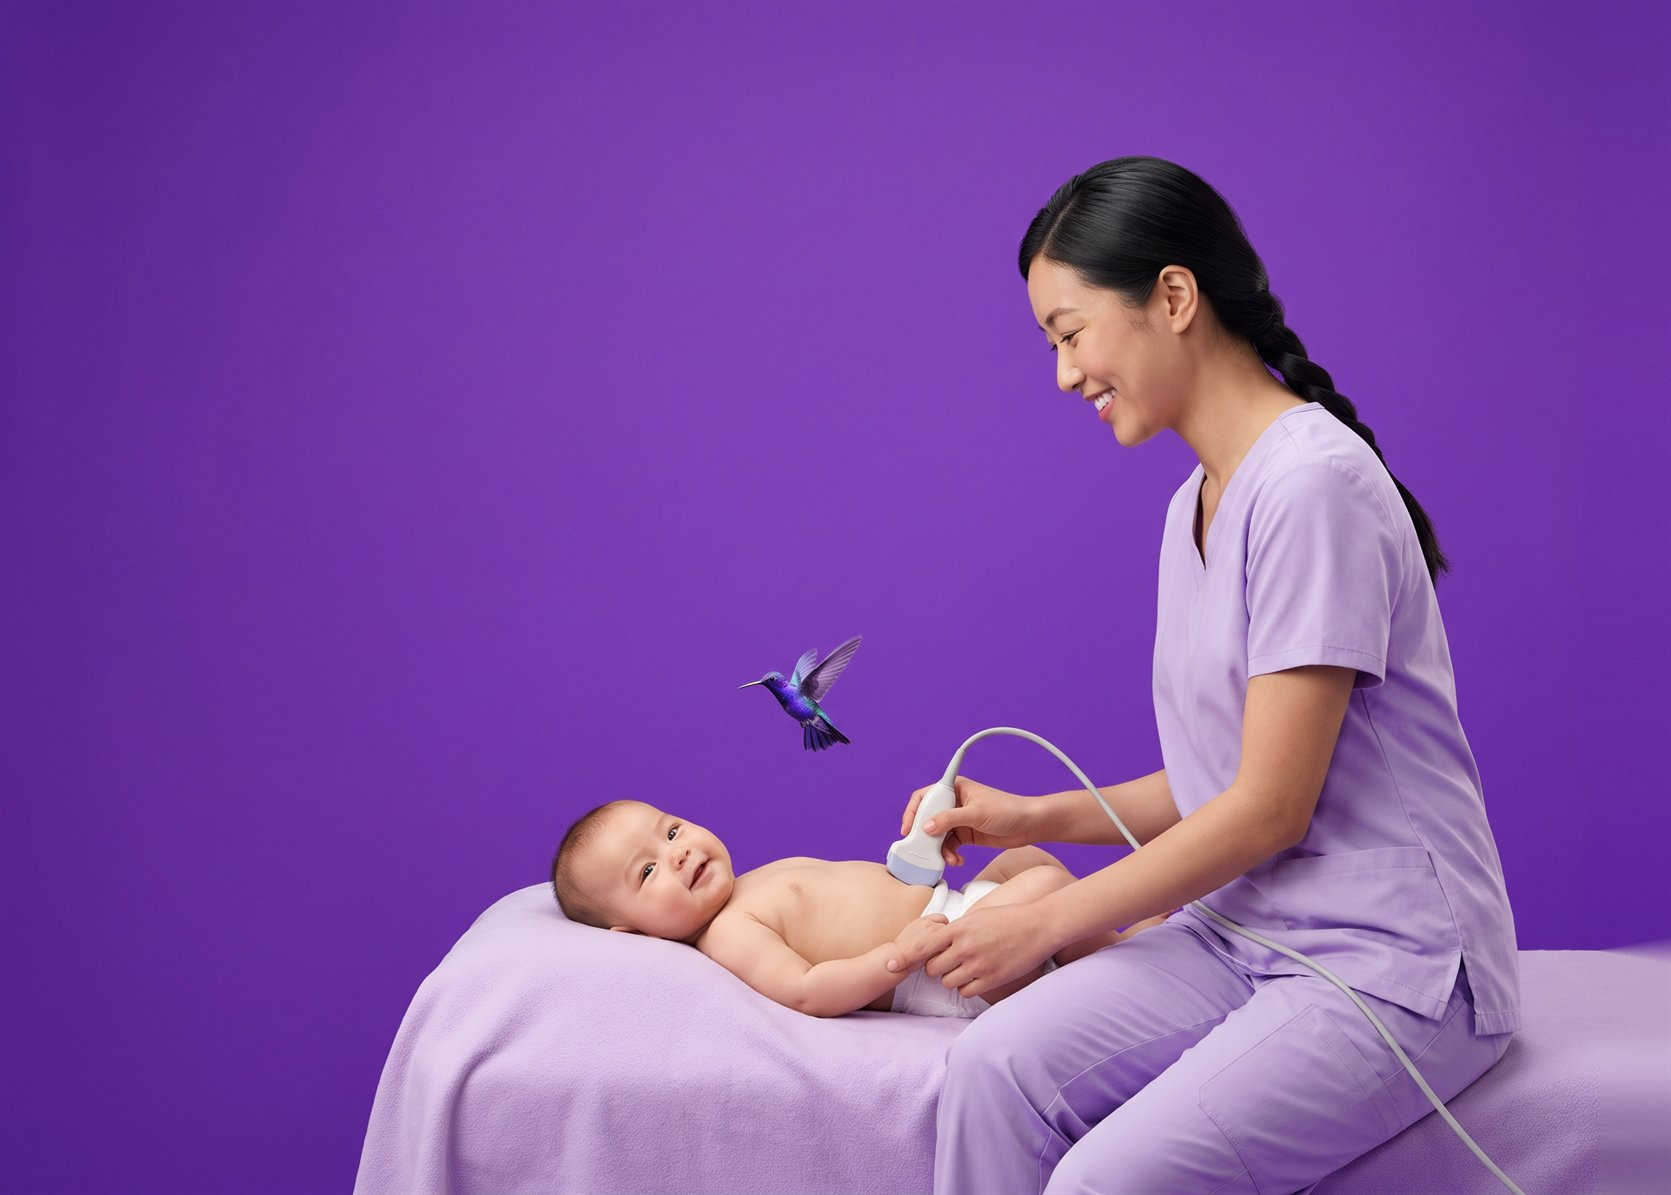
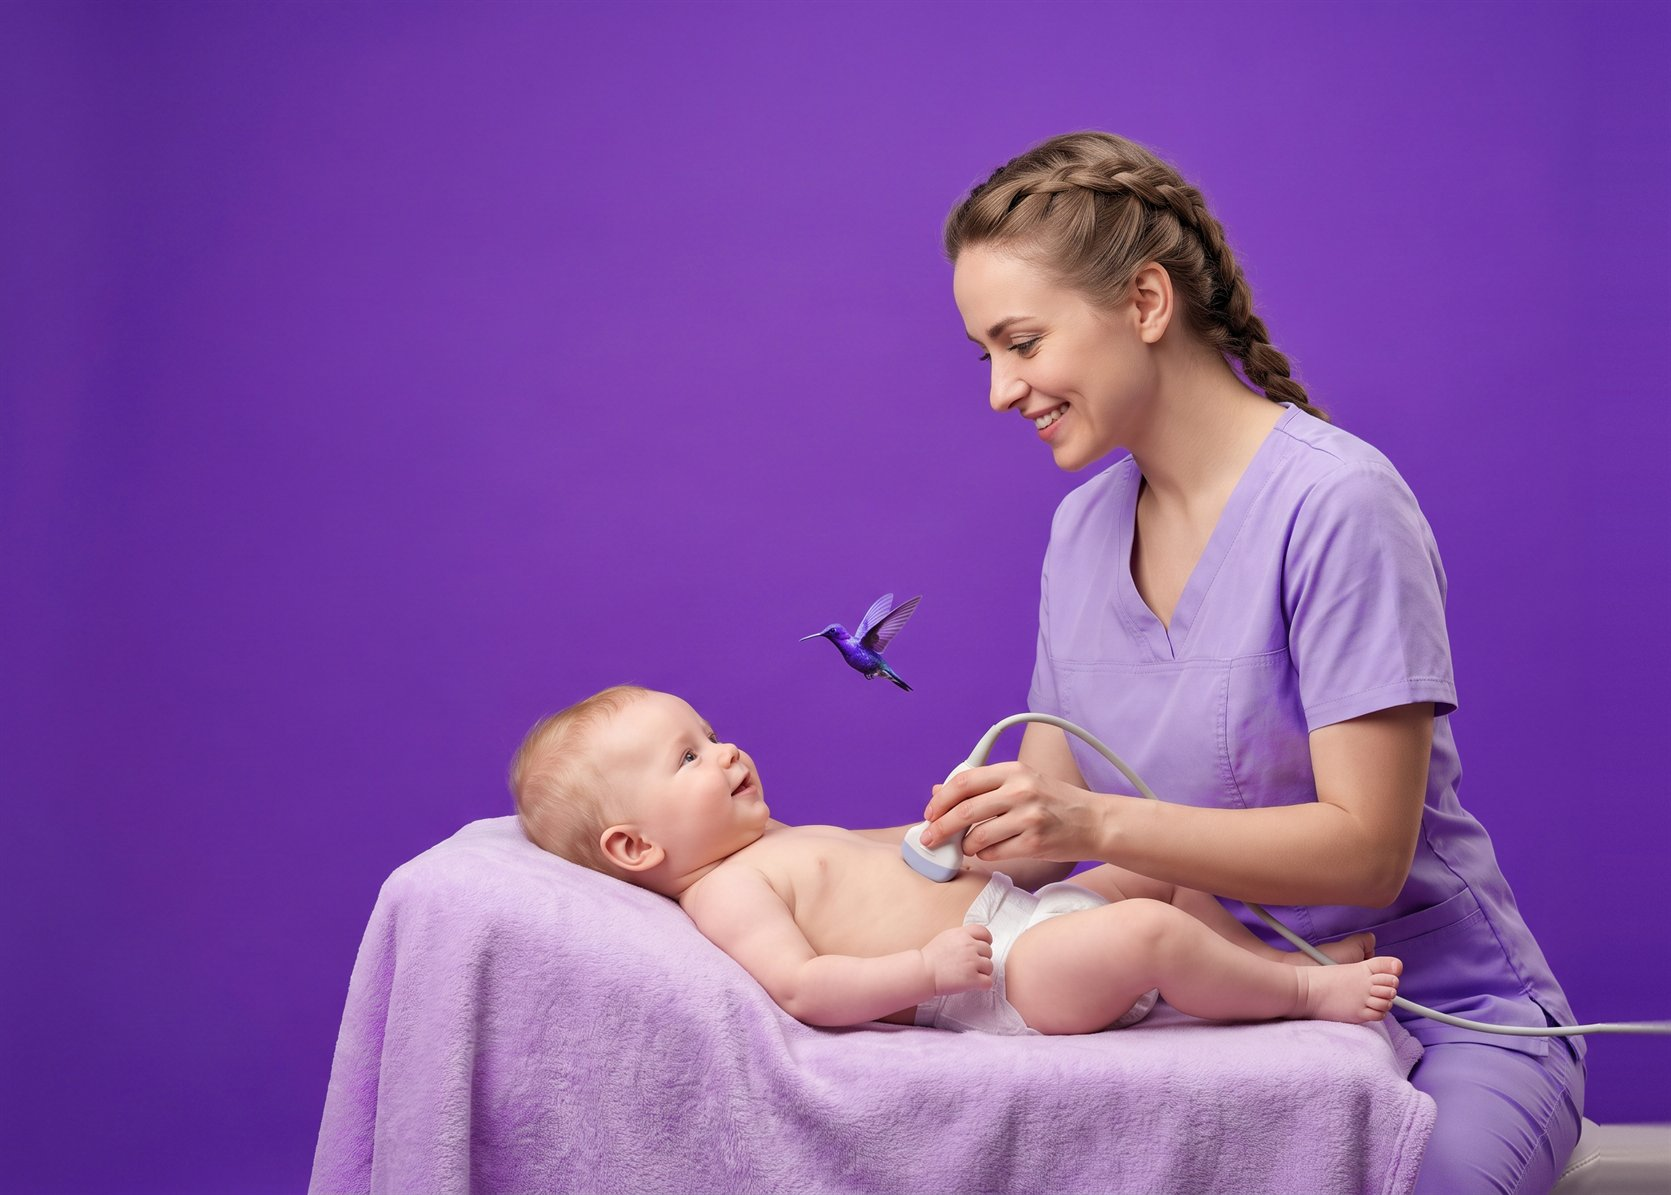
Слайд 2 (УЗИ): врач и малыш славянской внешности

Changed region(s): [[0.1867, 0.0929, 1.0, 1.0]]

diff --git a/js/photos.js b/js/photos.js
@@ -21,7 +21,7 @@ window.PHOTO_STYLES = {
 window.PHOTOS = {
   /* --- главный слайдер: студийные фото из Gemini, как баннеры страниц (img/photos; описания — запасной вариант) --- */
   'hero-newborn':   { p: 'smiling woman pediatrician with light brown hair in a bun, white coat over lavender scrubs, holding a laughing baby in a white bodysuit who reaches for a violet hummingbird, solid violet studio backdrop', w: 1600, h: 1200, s: 101, k: 'scene' },
-  'hero-uzi':       { p: 'young woman ultrasound doctor with a black braid in lavender scrubs gently scanning the tummy of a smiling baby lying on a lavender blanket, a violet hummingbird above, solid violet studio backdrop', w: 1600, h: 1200, s: 1102, k: 'scene' },
+  'hero-uzi':       { p: 'young Slavic woman ultrasound doctor with a light brown braid in lavender scrubs gently scanning the tummy of a smiling fair-haired baby lying on a lavender blanket, a violet hummingbird above, solid violet studio backdrop', w: 1600, h: 1200, s: 1102, k: 'scene' },
   'hero-premature': { p: 'doctor hands in white sleeves holding a tiny sleeping newborn swaddled in white muslin with a lavender knitted hat, a violet hummingbird above, solid violet studio backdrop', w: 1600, h: 1200, s: 103, k: 'scene' },
   'hero-program':   { p: 'one-year-old girl with light curls in a lavender knitted romper taking first steps holding the fingers of a smiling pediatrician kneeling behind her, a violet hummingbird ahead, solid violet studio backdrop', w: 1600, h: 1200, s: 104, k: 'scene' },
   /* --- карточки услуг на главной --- */

diff --git a/app-concept.html b/app-concept.html
@@ -9,7 +9,7 @@
   <link rel="preconnect" href="https://fonts.googleapis.com">
   <link rel="preconnect" href="https://fonts.gstatic.com" crossorigin>
   <link href="https://fonts.googleapis.com/css2?family=Comfortaa:wght@400;600;700&family=Nunito:wght@400;600;700;800&display=swap" rel="stylesheet">
-  <link rel="stylesheet" href="css/style.css?v=202610012133">
+  <link rel="stylesheet" href="css/style.css?v=202610012200">
   <style>
     /* ---------- страница ---------- */
     .concept-hero { background: linear-gradient(120deg, var(--p600), var(--p800)); color: #fff; border-radius: 32px; padding: 44px 48px; margin-top: 24px; display: grid; grid-template-columns: 1.2fr .8fr; gap: 32px; align-items: center; position: relative; overflow: hidden; }
@@ -778,8 +778,8 @@
   <symbol id="a-alert" viewBox="0 0 24 24" fill="none" stroke="currentColor" stroke-width="2" stroke-linecap="round" stroke-linejoin="round"><circle cx="12" cy="12" r="9"/><path d="M12 7v6M12 16h.01"/></symbol>
 </svg>
 
-<script src="js/data.js?v=202610012133"></script>
-<script src="js/photos.js?v=202610012133"></script>
-<script src="js/main.js?v=202610012133"></script>
+<script src="js/data.js?v=202610012200"></script>
+<script src="js/photos.js?v=202610012200"></script>
+<script src="js/main.js?v=202610012200"></script>
 </body>
 </html>

diff --git a/rostomer.html b/rostomer.html
@@ -8,7 +8,7 @@
   <link rel="preconnect" href="https://fonts.googleapis.com">
   <link rel="preconnect" href="https://fonts.gstatic.com" crossorigin>
   <link href="https://fonts.googleapis.com/css2?family=Comfortaa:wght@400;600;700&family=Nunito:wght@400;600;700;800&display=swap" rel="stylesheet">
-  <link rel="stylesheet" href="css/style.css?v=202610012133">
+  <link rel="stylesheet" href="css/style.css?v=202610012200">
   <style>
     .intro { background: #fff; border-radius: var(--radius); padding: 24px 28px; box-shadow: var(--shadow); margin-bottom: 28px; }
     .intro p { margin: 0 0 8px; font-size: 15px; }
@@ -90,10 +90,10 @@
   </div>
 </section>
 
-<script src="js/data.js?v=202610012133"></script>
-<script src="js/photos.js?v=202610012133"></script>
-<script src="js/main.js?v=202610012133"></script>
-<script src="js/rostomer.js?v=202610012133"></script>
+<script src="js/data.js?v=202610012200"></script>
+<script src="js/photos.js?v=202610012200"></script>
+<script src="js/main.js?v=202610012200"></script>
+<script src="js/rostomer.js?v=202610012200"></script>
 <script>
 (function () {
   window.ROSTOMER.variants.forEach(function (v, i) {

diff --git a/index.html b/index.html
@@ -9,7 +9,7 @@
   <link rel="preconnect" href="https://fonts.googleapis.com">
   <link rel="preconnect" href="https://fonts.gstatic.com" crossorigin>
   <link href="https://fonts.googleapis.com/css2?family=Comfortaa:wght@400;600;700&family=Nunito:wght@400;600;700;800&display=swap" rel="stylesheet">
-  <link rel="stylesheet" href="css/style.css?v=202610012133">
+  <link rel="stylesheet" href="css/style.css?v=202610012200">
 </head>
 <body>
 
@@ -237,8 +237,8 @@
   </div>
 </section>
 
-<script src="js/data.js?v=202610012133"></script>
-<script src="js/photos.js?v=202610012133"></script>
-<script src="js/main.js?v=202610012133"></script>
+<script src="js/data.js?v=202610012200"></script>
+<script src="js/photos.js?v=202610012200"></script>
+<script src="js/main.js?v=202610012200"></script>
 </body>
 </html>

diff --git a/ceny.html b/ceny.html
@@ -9,7 +9,7 @@
   <link rel="preconnect" href="https://fonts.googleapis.com">
   <link rel="preconnect" href="https://fonts.gstatic.com" crossorigin>
   <link href="https://fonts.googleapis.com/css2?family=Comfortaa:wght@400;600;700&family=Nunito:wght@400;600;700;800&display=swap" rel="stylesheet">
-  <link rel="stylesheet" href="css/style.css?v=202610012133">
+  <link rel="stylesheet" href="css/style.css?v=202610012200">
 </head>
 <body>
 
@@ -63,8 +63,8 @@
   </div>
 </section>
 
-<script src="js/data.js?v=202610012133"></script>
-<script src="js/photos.js?v=202610012133"></script>
-<script src="js/main.js?v=202610012133"></script>
+<script src="js/data.js?v=202610012200"></script>
+<script src="js/photos.js?v=202610012200"></script>
+<script src="js/main.js?v=202610012200"></script>
 </body>
 </html>

diff --git a/kontakty.html b/kontakty.html
@@ -9,7 +9,7 @@
   <link rel="preconnect" href="https://fonts.googleapis.com">
   <link rel="preconnect" href="https://fonts.gstatic.com" crossorigin>
   <link href="https://fonts.googleapis.com/css2?family=Comfortaa:wght@400;600;700&family=Nunito:wght@400;600;700;800&display=swap" rel="stylesheet">
-  <link rel="stylesheet" href="css/style.css?v=202610012133">
+  <link rel="stylesheet" href="css/style.css?v=202610012200">
 </head>
 <body>
 
@@ -55,8 +55,8 @@
   </div>
 </section>
 
-<script src="js/data.js?v=202610012133"></script>
-<script src="js/photos.js?v=202610012133"></script>
-<script src="js/main.js?v=202610012133"></script>
+<script src="js/data.js?v=202610012200"></script>
+<script src="js/photos.js?v=202610012200"></script>
+<script src="js/main.js?v=202610012200"></script>
 </body>
 </html>

diff --git a/o-klinike.html b/o-klinike.html
@@ -9,7 +9,7 @@
   <link rel="preconnect" href="https://fonts.googleapis.com">
   <link rel="preconnect" href="https://fonts.gstatic.com" crossorigin>
   <link href="https://fonts.googleapis.com/css2?family=Comfortaa:wght@400;600;700&family=Nunito:wght@400;600;700;800&display=swap" rel="stylesheet">
-  <link rel="stylesheet" href="css/style.css?v=202610012133">
+  <link rel="stylesheet" href="css/style.css?v=202610012200">
 </head>
 <body>
 
@@ -91,8 +91,8 @@
   </div>
 </section>
 
-<script src="js/data.js?v=202610012133"></script>
-<script src="js/photos.js?v=202610012133"></script>
-<script src="js/main.js?v=202610012133"></script>
+<script src="js/data.js?v=202610012200"></script>
+<script src="js/photos.js?v=202610012200"></script>
+<script src="js/main.js?v=202610012200"></script>
 </body>
 </html>

diff --git a/poleznoe.html b/poleznoe.html
@@ -9,7 +9,7 @@
   <link rel="preconnect" href="https://fonts.googleapis.com">
   <link rel="preconnect" href="https://fonts.gstatic.com" crossorigin>
   <link href="https://fonts.googleapis.com/css2?family=Comfortaa:wght@400;600;700&family=Nunito:wght@400;600;700;800&display=swap" rel="stylesheet">
-  <link rel="stylesheet" href="css/style.css?v=202610012133">
+  <link rel="stylesheet" href="css/style.css?v=202610012200">
 </head>
 <body>
 
@@ -33,8 +33,8 @@
   </div>
 </section>
 
-<script src="js/data.js?v=202610012133"></script>
-<script src="js/photos.js?v=202610012133"></script>
-<script src="js/main.js?v=202610012133"></script>
+<script src="js/data.js?v=202610012200"></script>
+<script src="js/photos.js?v=202610012200"></script>
+<script src="js/main.js?v=202610012200"></script>
 </body>
 </html>

diff --git a/uslugi.html b/uslugi.html
@@ -9,7 +9,7 @@
   <link rel="preconnect" href="https://fonts.googleapis.com">
   <link rel="preconnect" href="https://fonts.gstatic.com" crossorigin>
   <link href="https://fonts.googleapis.com/css2?family=Comfortaa:wght@400;600;700&family=Nunito:wght@400;600;700;800&display=swap" rel="stylesheet">
-  <link rel="stylesheet" href="css/style.css?v=202610012133">
+  <link rel="stylesheet" href="css/style.css?v=202610012200">
 </head>
 <body>
 
@@ -57,8 +57,8 @@
   </div>
 </section>
 
-<script src="js/data.js?v=202610012133"></script>
-<script src="js/photos.js?v=202610012133"></script>
-<script src="js/main.js?v=202610012133"></script>
+<script src="js/data.js?v=202610012200"></script>
+<script src="js/photos.js?v=202610012200"></script>
+<script src="js/main.js?v=202610012200"></script>
 </body>
 </html>

diff --git a/uzi.html b/uzi.html
@@ -9,7 +9,7 @@
   <link rel="preconnect" href="https://fonts.googleapis.com">
   <link rel="preconnect" href="https://fonts.gstatic.com" crossorigin>
   <link href="https://fonts.googleapis.com/css2?family=Comfortaa:wght@400;600;700&family=Nunito:wght@400;600;700;800&display=swap" rel="stylesheet">
-  <link rel="stylesheet" href="css/style.css?v=202610012133">
+  <link rel="stylesheet" href="css/style.css?v=202610012200">
 </head>
 <body>
 
@@ -75,8 +75,8 @@
   </div>
 </section>
 
-<script src="js/data.js?v=202610012133"></script>
-<script src="js/photos.js?v=202610012133"></script>
-<script src="js/main.js?v=202610012133"></script>
+<script src="js/data.js?v=202610012200"></script>
+<script src="js/photos.js?v=202610012200"></script>
+<script src="js/main.js?v=202610012200"></script>
 </body>
 </html>

diff --git a/vrachi.html b/vrachi.html
@@ -9,7 +9,7 @@
   <link rel="preconnect" href="https://fonts.googleapis.com">
   <link rel="preconnect" href="https://fonts.gstatic.com" crossorigin>
   <link href="https://fonts.googleapis.com/css2?family=Comfortaa:wght@400;600;700&family=Nunito:wght@400;600;700;800&display=swap" rel="stylesheet">
-  <link rel="stylesheet" href="css/style.css?v=202610012133">
+  <link rel="stylesheet" href="css/style.css?v=202610012200">
 </head>
 <body>
 
@@ -45,8 +45,8 @@
   </div>
 </section>
 
-<script src="js/data.js?v=202610012133"></script>
-<script src="js/photos.js?v=202610012133"></script>
-<script src="js/main.js?v=202610012133"></script>
+<script src="js/data.js?v=202610012200"></script>
+<script src="js/photos.js?v=202610012200"></script>
+<script src="js/main.js?v=202610012200"></script>
 </body>
 </html>

diff --git a/CLAUDE.md b/CLAUDE.md
@@ -66,6 +66,8 @@ Git-копия: `%TEMP%\claude\...\scratchpad\kolibri-site` (путь в `tools/
 - Правки пользователя в Фотошопе (01.10.2026: hero-program и hero-premature — руки и рукава; он сохранил их поверх
   `обработанные\`) лежат в `Сайт\баннеры-gemini\после-фотошопа\`. `баннеры-gemini.ps1` такие ключи не обрабатывает,
   только уменьшает для сайта. Не перезаписывать и не прогонять через цветокор без его просьбы.
+- Слайд 2 (УЗИ) заменён 01.10.2026: врач и малыш славянской внешности (по просьбе пользователя); прежний вариант
+  с врачом азиатской внешности — Сайт\баннеры-gemini\старые-слайды\hero-uzi-азиатка-*.jpg.
 - Отзывы на главной — примеры; тексты врачей — только из docx клиента, ничего не выдумывать.
 
 ## Приложение и МЕДМИС
